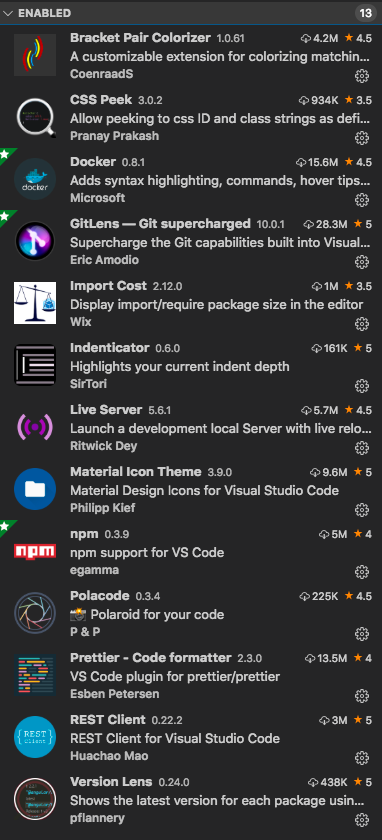
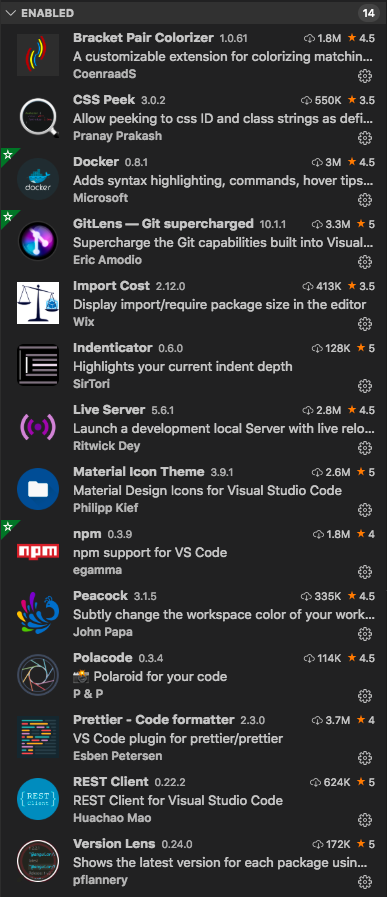
codetest add

Changed region(s): [[0.0, 0.0, 1.0, 0.9905]]

diff --git a/content/blog/codingtest/etc/1.md b/content/blog/codingtest/etc/1.md
@@ -1,0 +1,122 @@
+---
+title: ' 코딩테스트 '
+date: 2019-10-20 17:00:00
+category: 'Algorithm'
+---
+
+![](./images/logo.jpg)
+
+<center><strong style="font-size: 20px;">기업에서 출제하는 코딩테스트</strong></center>
+
+<br />
+
+## **💎 목차**
+
+- [문제 설명 (Problem)](#-문제-설명)
+- [입출력 예 (Example)](#-입출력-예)
+- [문제 풀이 (Solution)](#-문제-풀이)
+
+## **📕 문제 설명**
+
+**1. string to integer**
+
+- string 으로 존재하는 정수를 integer 로 변환하는 함수를 작성해주세요.
+
+- 이 문제의 의도는 `string 을 iteration` 하면서 경계조건,
+
+- `예외 케이스` 등을 잘 처리할 수 있는지에 있습니다.
+
+- 즉, 한 글자씩 iteration 하면서 다른 함수들을 이용해
+
+- Integer.parseInt/1 같은 함수를 `직접` 만드시면 됩니다.
+
+**2. list rotation**
+
+- list 와 count 를 받아 count 만큼 list 를 rotation 하는 함수를 구현해주세요.
+
+- 이 문제의 의도는 `enumerable` 을 잘 다룰 수 있는가,
+
+- 조건을 단순화할 수 있는가에 있습니다.
+
+<br />
+
+**[⬆ 목차](#-목차)**
+
+<hr />
+
+## **📙 입출력 예**
+
+**1. string to integer**
+
+```js
+1) string 의 내용이 양의 정수인 경우 number 로 변환합니다.
+ Input: "123" / string
+ Output: 123 / number
+
+2) string 의 내용이 정수가 아닌 경우는 null 을 반환해야 합니다.
+ Input: "123.456" / string
+ Output: null
+
+3) string 의 내용이 음의 정수인 경우도 변환이 가능해야합니다.
+ Input: "-123" / string
+ Output: -123 / number
+```
+
+**2. list rotation**
+
+```js
+1) list 의 크기보다 작은 0 과 같거나 큰 count 를 받아 rotation 을 합니다.
+ Input: (list = [1, 2, 3, 4, 5]), (count = 2)
+ Output: [3, 4, 5, 1, 2]
+
+2) list 의 크기보다 큰 count 를 받아 rotation 을 합니다.
+ Input: (list = [1, 2, 3, 4, 5]), (count = 8)
+ Output: [4, 5, 1, 2, 3]
+
+3) 0 보다 작은 count 를 받아 rotation 을 합니다.
+ Input: (list = [1, 2, 3, 4, 5]), (count = -1)
+ Output: [5, 1, 2, 3, 4]
+```
+
+<br />
+
+**[⬆ 목차](#-목차)**
+
+<hr />
+
+## **📘 문제 풀이**
+
+**1. string to integer**
+
+```js
+function Solution(input) {
+  return input.match(/^-?([0-9]*)[\.]?([0-9])?$/) ? parseInt(input) : null
+}
+```
+
+**2. list rotation**
+
+```js
+function Solution(list, count) {
+  if (Math.abs(count) > list.length) {
+    count =
+      count > list.length
+        ? count % list.length
+        : (Math.abs(count) % list.length) * -1
+  }
+
+  return list.slice(count, list.length).concat(list.slice(0, count))
+}
+```
+
+<br />
+
+<br />
+
+**[⬆ 목차](#-목차)**
+
+<hr />
+
+<br />
+
+# 여러분의 댓글이 큰힘이 됩니다. (๑•̀ㅂ•́)و✧

diff --git a/content/blog/algorithm/everyday/10.md b/content/blog/algorithm/everyday/10.md
@@ -1,6 +1,6 @@
 <!-- ---
-title: ' 매일프로그래밍 ▻ 겹치는 간격 원소 '
-date: 2019-09-23 08:17:00
+title: ' 매일프로그래밍 ▻ 배열 이동 '
+date: 2019-10-21 08:19:00
 category: 'Algorithm'
 ---
 
@@ -18,11 +18,7 @@ category: 'Algorithm'
 
 ## **📕 문제 설명**
 
-- 간격(interval)로 이루어진 배열이 주어지면,
-
-- 겹치는 간격 원소들을 합친 새로운 배열을 만드시오.
-
-- 간격은 시작과 끝으로 이루어져 있으며 시작은 끝보다 작거나 같습니다.
+- String이 주어지면, 중복된 char가 없는 가장 긴 서브스트링 (substring)의 길이를 찾으시오.
 
 <br />
 
@@ -33,11 +29,14 @@ category: 'Algorithm'
 ## **📙 입출력 예**
 
 ```js
-Input: {{2,4}, {1,5}, {7,9}}
-Output: {{1,5}, {7,9}}
+Input: 'aabcbcbc'
+Output: 3 // "abc"
 
-Input: {{3,6}, {1,3}, {2,4}}
-Output: {{1,6}}
+Input: 'aaaaaaaa'
+Output: 1 // "a"
+
+Input: 'abbbcedd'
+Output: 4 // "bced"
 ```
 
 <br />
@@ -48,7 +47,7 @@ Output: {{1,6}}
 
 ## **📘 문제 풀이**
 
-![](./images/solution.7.png)
+![](./images/solution.10.png)
 <br />
 
 <br />

diff --git a/content/blog/etc/vscode.md b/content/blog/etc/vscode.md
@@ -222,6 +222,23 @@ category: 'VS Code'
 <br />
 <hr />
 
+### **▸ Peacock**
+
+[![](./images/vscode/35.png)](https://marketplace.visualstudio.com/items?itemName=johnpapa.vscode-peacock)
+<br />
+
+워크스페이스 색상을 변경해줍니다.
+
+![](./images/vscode/36.png)
+<br />
+
+`CMD + Shift + P > Peacock: Enter a Color` 후
+
+원하시는 색상을 입력하시면 됩니다.
+
+<br />
+<hr />
+
 ### **▸ Polacode**
 
 [![](./images/vscode/24.png)](https://marketplace.visualstudio.com/items?itemName=pnp.polacode)

diff --git a/content/blog/algorithm/everyday/2.md b/content/blog/algorithm/everyday/2.md
@@ -30,13 +30,13 @@ category: 'Algorithm'
 
 ```js
 Input: ['apple', 'apps', 'ape']
-Output: 2 // “ap”
+Output: 2 // "ap"
 
 Input: ['hawaii', 'happy']
-Output: 2 // “ha”
+Output: 2 // "ha"
 
 Input: ['dog', 'dogs', 'doge']
-Output: 3 // “dog”
+Output: 3 // "dog"
 ```
 
 <br />

diff --git a/content/blog/algorithm/everyday/9.md b/content/blog/algorithm/everyday/9.md
@@ -31,13 +31,11 @@ category: 'Algorithm'
 ## **📙 입출력 예**
 
 ```js
+Input: [0, 5, 0, 3, -1]
+Output: [5, 3, -1, 0, 0]
 
-Input : [0, 5, 0, 3, -1]
-Output : [5, 3, -1, 0, 0]
-
-Input : [3, 0, 3]
-Output : [3, 3, 0]
-
+Input: [3, 0, 3]
+Output: [3, 3, 0]
 ```
 
 <br />

diff --git a/content/blog/algorithm/everyday/8.md b/content/blog/algorithm/everyday/8.md
@@ -29,13 +29,11 @@ category: 'Algorithm'
 ## **📙 입출력 예**
 
 ```js
+Input: [10, 5, 4, 3, -1]
+Output: 5
 
-Input : [10, 5, 4, 3, -1]
-Output : 5
-
-Input : [3, 3, 3]
-Output : Does not exist.
-
+Input: [3, 3, 3]
+Output: Does not exist.
 ```
 
 <br />

diff --git a/content/blog/algorithm/project-euler/1.md b/content/blog/algorithm/project-euler/1.md
@@ -29,10 +29,8 @@ category: 'Algorithm'
 ## **📙 입출력 예**
 
 ```js
-
-Input : input 10, nums [3, 5]
-Output : 23 // 3 + 5 + 6 + 9 = 23
-
+Input: (input = 10), (nums = [3, 5])
+Output: 23 // 3 + 5 + 6 + 9 = 23
 ```
 
 <br />

diff --git a/content/blog/algorithm/everyday/4.md b/content/blog/algorithm/everyday/4.md
@@ -29,10 +29,8 @@ category: 'Algorithm'
 ## **📙 입출력 예**
 
 ```js
-
-Input : ABC
-Output : ABC ACB BAC BCA CBA CAB
-
+Input: ABC
+Output: ABC ACB BAC BCA CBA CAB
 ```
 
 <br />
